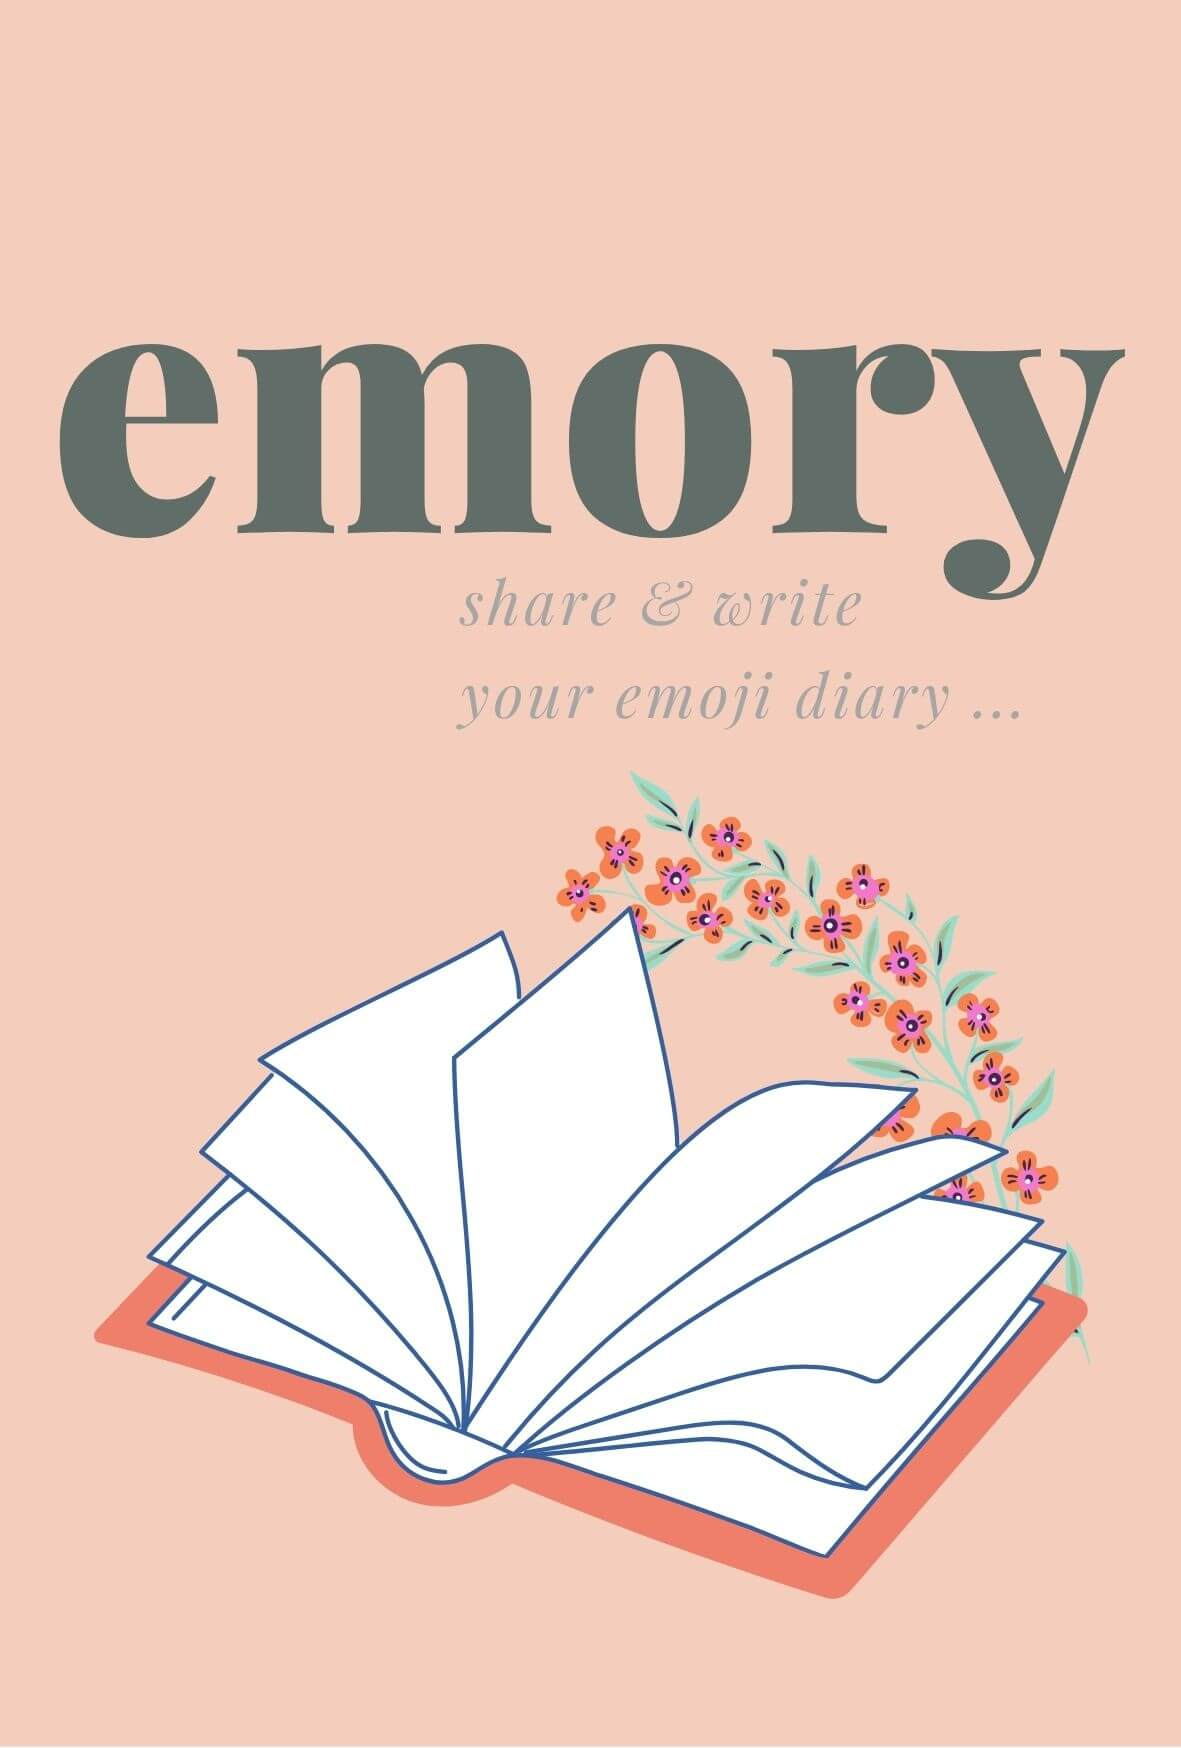
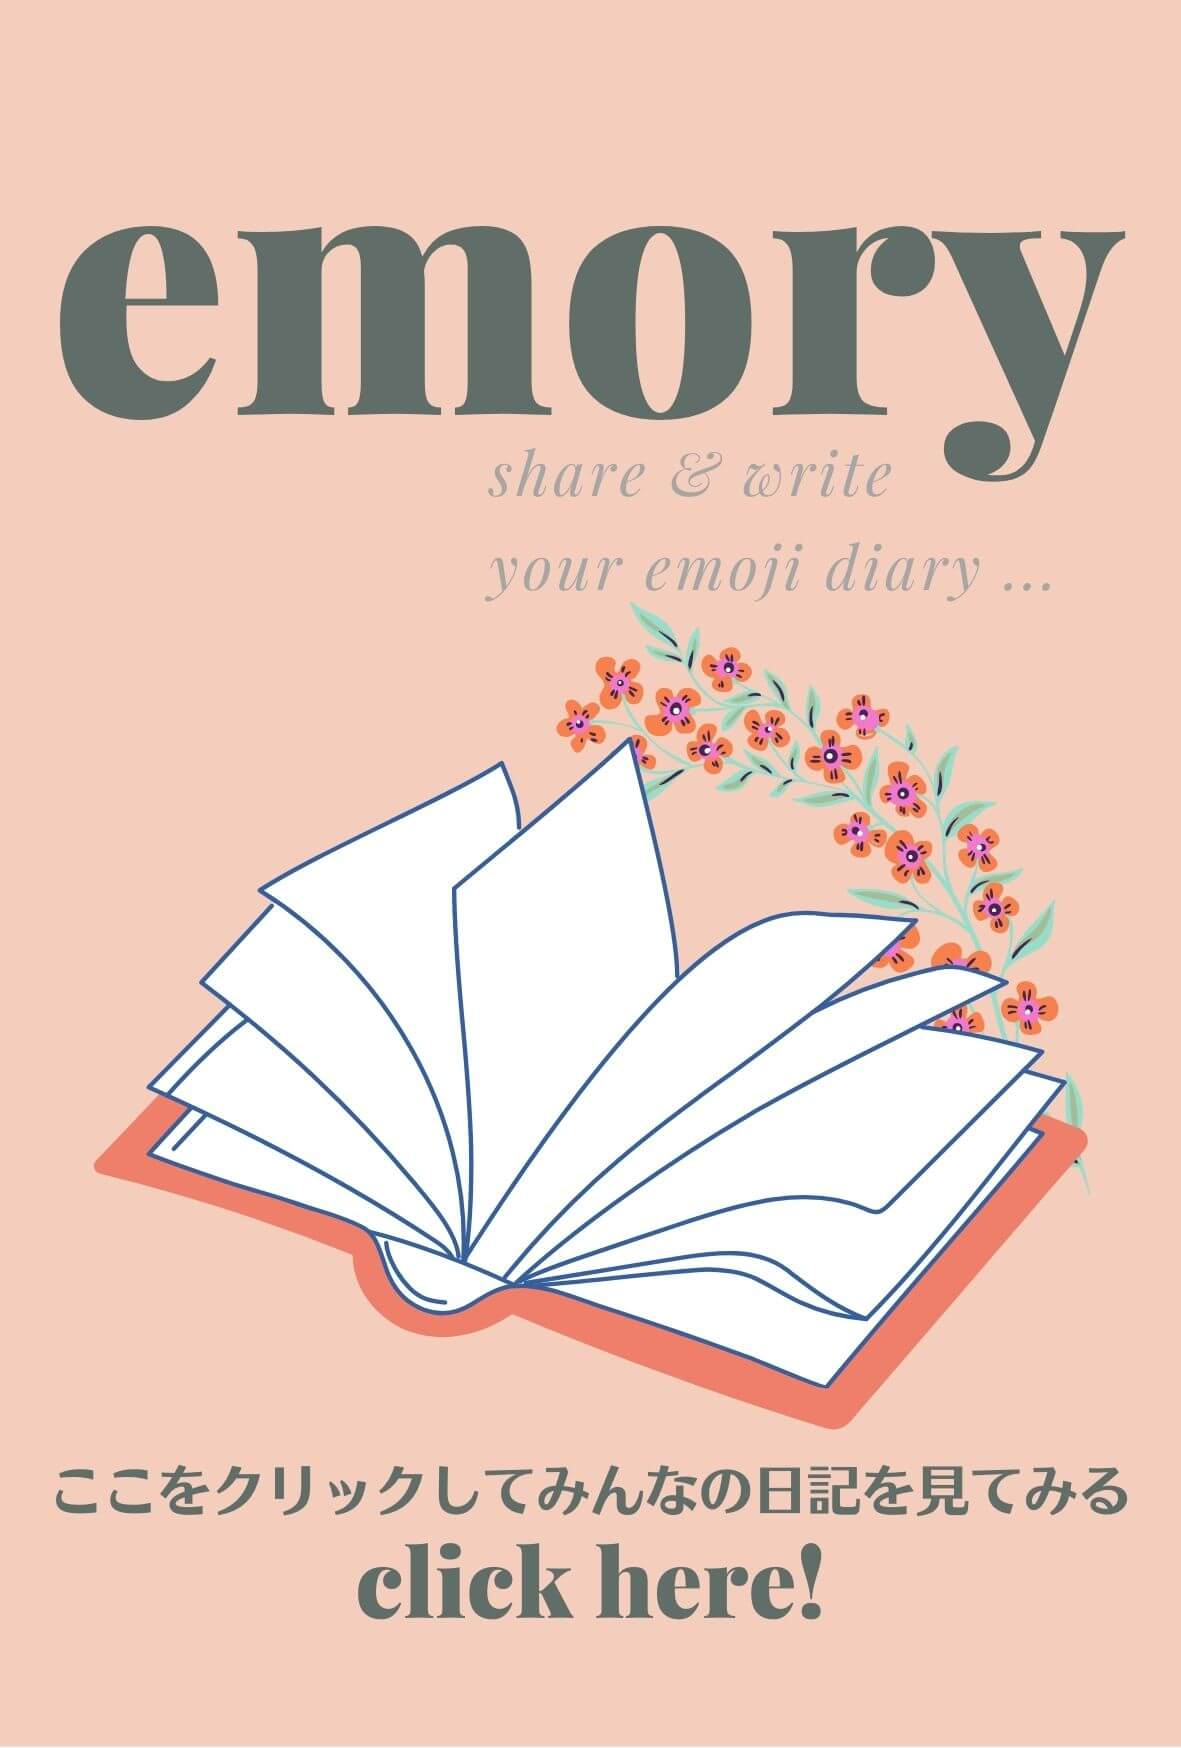
Add: みんなの日記に行くためのリンクを追加

diff --git a/app/javascript/src/diaries.scss b/app/javascript/src/diaries.scss
@@ -372,7 +372,7 @@ input:checked + .tab_class + .content_class {
 #emoji-feeling-top-10 {
   background: #8F85AF;
   width: 100%;
-  margin: 10px;
+  margin: auto;
   padding: 6px 13px 6px 13px;
   border-radius: 10px 20px 30px 40px;
   transition: 0.3s;
@@ -403,7 +403,7 @@ input:checked + .tab_class + .content_class {
 #emoji-feeling-top-20 {
   background: #8F85AF;
   width: 100%;
-  margin: 10px;
+  margin: auto;
   padding: 6px 13px 6px 13px;
   border-radius: 20px 30px 40px 10px;
   transition: 0.3s;
@@ -434,7 +434,7 @@ input:checked + .tab_class + .content_class {
 #emoji-feeling-top-30 {
   background: #89BCD6;
   width: 100%;
-  margin: 10px;
+  margin: auto;
   padding: 6px 13px 6px 13px;
   border-radius: 30px 40px 10px 20px;
   transition: 0.3s;
@@ -465,7 +465,7 @@ input:checked + .tab_class + .content_class {
 #emoji-feeling-top-40 {
   background: #89BCD6;
   width: 100%;
-  margin: 10px;
+  margin: auto;
   padding: 6px 13px 6px 13px;
   border-radius: 40px 10px 20px 30px;
   transition: 0.3s;
@@ -496,7 +496,7 @@ input:checked + .tab_class + .content_class {
 #emoji-feeling-top-50 {
   background: #B9C998;
   width: 100%;
-  margin: 10px;
+  margin: auto;
   padding: 6px 13px 6px 13px;
   border-radius: 10px 30px 20px 40px;
   transition: 0.3s;
@@ -527,7 +527,7 @@ input:checked + .tab_class + .content_class {
 #emoji-feeling-top-60 {
   background: #B9C998;
   width: 100%;
-  margin: 10px;
+  margin: auto;
   padding: 6px 13px 6px 13px;
   border-radius: 10px 40px 30px 20px;
   transition: 0.3s;
@@ -558,7 +558,7 @@ input:checked + .tab_class + .content_class {
 #emoji-feeling-top-70 {
   background: #DED799;
   width: 100%;
-  margin: 10px;
+  margin: auto;
   padding: 6px 13px 6px 13px;
   border-radius: 20px 10px 40px 30px;
   transition: 0.3s;
@@ -589,7 +589,7 @@ input:checked + .tab_class + .content_class {
 #emoji-feeling-top-80 {
   background: #DED799;
   width: 100%;
-  margin: 10px;
+  margin: auto;
   padding: 6px 13px 6px 13px;
   border-radius: 20px 40px 10px 30px;
   transition: 0.3s;
@@ -620,7 +620,7 @@ input:checked + .tab_class + .content_class {
 #emoji-feeling-top-90 {
   background: #D49A9C;
   width: 100%;
-  margin: 10px;
+  margin: auto;
   padding: 6px 13px 6px 13px;
   border-radius: 30px 10px 20px 40px;
   transition: 0.3s;
@@ -651,7 +651,7 @@ input:checked + .tab_class + .content_class {
 #emoji-feeling-top-100 {
   background: #D49A9C;
   width: 100%;
-  margin: 10px;
+  margin: auto;
   padding: 6px 13px 6px 13px;
   border-radius: 20px 40px 30px 10px;
   transition: 0.3s;
@@ -677,7 +677,19 @@ input:checked + .tab_class + .content_class {
     padding: 6px 6px 6px 7px;
   }
 
+  #emoji-feeling-top-100 {
+    width: 100%;
+    margin: auto;
+    padding: 6px 6px 6px 7px;
+  }
+
   #emoji-feeling-90 {
+    width: 100%;
+    margin: auto;
+    padding: 6px 6px 6px 7px;
+  }
+
+  #emoji-feeling-top-90 {
     width: 100%;
     margin: auto;
     padding: 6px 6px 6px 7px;
@@ -689,7 +701,25 @@ input:checked + .tab_class + .content_class {
     padding: 6px 6px 6px 7px;
   }
 
+  #emoji-feeling-top-80 {
+    width: 100%;
+    margin: auto;
+    padding: 6px 6px 6px 7px;
+  }
+
   #emoji-feeling-70 {
+    width: 100%;
+    margin: auto;
+    padding: 6px 6px 6px 7px;
+  }
+
+  #emoji-feeling-top-70 {
+    width: 100%;
+    margin: auto;
+    padding: 6px 6px 6px 7px;
+  }
+
+  #emoji-feeling-top-70 {
     width: 100%;
     margin: auto;
     padding: 6px 6px 6px 7px;
@@ -701,7 +731,19 @@ input:checked + .tab_class + .content_class {
     padding: 6px 6px 6px 7px;
   }
 
+  #emoji-feeling-top-60 {
+    width: 100%;
+    margin: auto;
+    padding: 6px 6px 6px 7px;
+  }
+
   #emoji-feeling-50 {
+    width: 100%;
+    margin: auto;
+    padding: 6px 6px 6px 7px;
+  }
+
+  #emoji-feeling-top-50 {
     width: 100%;
     margin: auto;
     padding: 6px 6px 6px 7px;
@@ -713,7 +755,19 @@ input:checked + .tab_class + .content_class {
     padding: 6px 6px 6px 7px;
   }
 
+  #emoji-feeling-top-40 {
+    width: 100%;
+    margin: auto;
+    padding: 6px 6px 6px 7px;
+  }
+
   #emoji-feeling-30 {
+    width: 100%;
+    margin: auto;
+    padding: 6px 6px 6px 7px;
+  }
+
+  #emoji-feeling-top-30 {
     width: 100%;
     margin: auto;
     padding: 6px 6px 6px 7px;
@@ -725,7 +779,19 @@ input:checked + .tab_class + .content_class {
     padding: 6px 6px 6px 7px;
   }
 
+  #emoji-feeling-top-20 {
+    width: 100%;
+    margin: auto;
+    padding: 6px 6px 6px 7px;
+  }
+
   #emoji-feeling-10 {
+    width: 100%;
+    margin: auto;
+    padding: 6px 6px 6px 7px;
+  }
+
+  #emoji-feeling-top-10 {
     width: 100%;
     margin: auto;
     padding: 6px 6px 6px 7px;
